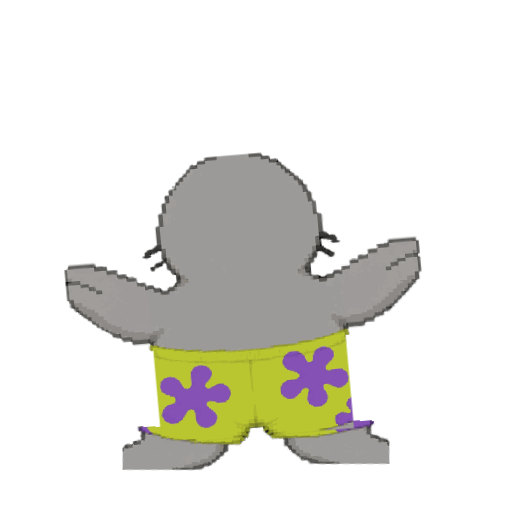
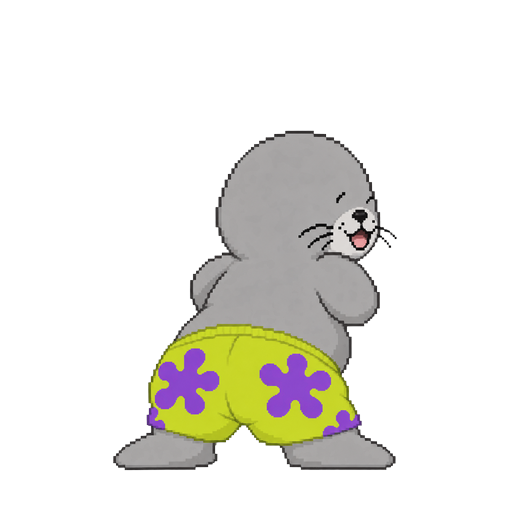
궁디댄스 원화 반입 — 진짜 그린 4키로 교체하고 뒤돌기 이음매를 맞춤
춤(twerk_loop)
  받은 원화 4장을 발 기준으로 정규화해 넣었다. 중앙 준비 120ms / 왼쪽 팝 200ms /
  중앙 통과 120ms / 오른쪽 팝 200ms — 한 바퀴 640ms, 신호 한 번에 3바퀴.
  팝을 길게, 통과를 짧게 둬서 박자가 생긴다. 몸 중심이 아니라 **발**로 맞춰서
  골반 이동이 정규화에 지워지지 않게 했다.

  ⚠ 골반 좌우 진폭이 발주 기준(한쪽 8~10%)의 1/3 수준인 19px(키의 5.7%)로 측정된다.
    프레임을 더 밀면 발까지 움직여 미끄러지므로 배치로는 못 고친다. 더 크게 하려면
    골반을 더 밀어 그린 원화가 필요하다. docs/art-orders.md 에 수치를 남겼다.

뒤돌기 이음매(turn_back / turn_front)
  뒤돌기는 5조각으로 구운 임시 뒷모습에서 끝나는데 춤은 새 원화로 시작해서,
  그 사이에서 팔·머리·명암이 통째로 바뀌며 크게 튀었다. 뒤돌기의 마지막 장과
  복귀의 첫 장을 춤 원화의 첫 자세와 같은 그림으로 바꿔 그 튐을 없앴다.
  3/4 측면(frame-01)은 여전히 가짜다(가로로 눌러 흉내). 스타일이 바뀌는 순간을
  가장 알아보기 어려운 프레임에 몰아넣은 배치다.

원화 보호 — 실제로 원화가 지워지고 있었다
  bake-placeholder-clips.js 를 한 번만 더 돌리면 방금 넣은 원화가 임시본으로
  되돌아가는 상태였다(placeholder 표시가 남아 있어 보호 조건에 안 걸렸다).
  import-clip.py 가 clip.json 에 source:"import" 를 박고, 굽기 도구가 그 클립을
  건너뛰게 했다. 가드를 잠시 풀고 돌려서 세 클립이 전부 덮어써지는 것을 확인했다.

굽기 도구 --force 가 동작하지 않던 버그
  argv[2] 를 캐릭터 이름으로 그냥 읽어서 `--force` 가 캐릭터 id 로 해석됐고,
  art/clips/--force/ 라는 엉뚱한 폴더에 조용히 구워졌다. 옵션을 걸러 읽게 고쳤다.

리모컨 버튼 이름을 "트월킹" → "궁디댄스" 로 바꿨다.

Claude-Session: https://claude.ai/code/session_01UGKUMqyrf4eS8x4wjHjfSy

Changed region(s): [[0.125, 0.25, 0.8438, 0.9375], [0.2188, 0.875, 0.4062, 0.9375]]

diff --git a/src/renderer/shared/clip-art.js b/src/renderer/shared/clip-art.js
@@ -15,7 +15,7 @@
   const RW = (root.RW = root.RW || {});
   const here = (typeof document !== 'undefined' && document.currentScript && document.currentScript.src) || '';
   const BASE = here ? here.replace(/shared\/clip-art\.js.*$/, 'assets/clips/') : 'assets/clips/';
-  const DATA = {"char_seal":{"canvas":{"w":512,"h":512},"anchor":{"x":256,"y":470},"displayScale":0.7059,"clips":{"idle":{"id":"idle","loop":true,"loopFrom":0,"cancelFrom":0,"frames":[{"image":"char_seal/idle/frame-00.png","dur":700,"bbox":[82,152,430,470]},{"image":"char_seal/idle/frame-01.png","dur":500,"bbox":[84,142,428,470]},{"image":"char_seal/idle/frame-02.png","dur":500,"bbox":[86,136,426,470]},{"image":"char_seal/idle/frame-03.png","dur":700,"bbox":[78,161,434,470]}],"placeholder":true},"g_cheer":{"id":"g_cheer","loop":false,"loopFrom":0,"cancelFrom":6,"frames":[{"image":"char_seal/idle/frame-00.png","dur":100,"bbox":[82,152,430,470]},{"image":"char_seal/g_cheer/frame-01.png","dur":220,"bbox":[58,217,454,471]},{"image":"char_seal/g_cheer/frame-02.png","dur":120,"bbox":[102,95,411,451]},{"image":"char_seal/g_cheer/frame-03.png","dur":260,"bbox":[116,51,396,429]},{"image":"char_seal/g_cheer/frame-04.png","dur":120,"bbox":[93,116,420,467]},{"image":"char_seal/g_cheer/frame-05.png","dur":200,"bbox":[63,207,450,470]},{"image":"char_seal/g_cheer/frame-02.png","dur":120,"bbox":[102,95,411,451]},{"image":"char_seal/g_cheer/frame-03.png","dur":260,"bbox":[116,51,396,429]},{"image":"char_seal/g_cheer/frame-04.png","dur":120,"bbox":[93,116,420,467]},{"image":"char_seal/g_cheer/frame-05.png","dur":200,"bbox":[63,207,450,470]},{"image":"char_seal/g_cheer/frame-02.png","dur":120,"bbox":[102,95,411,451]},{"image":"char_seal/g_cheer/frame-03.png","dur":260,"bbox":[116,51,396,429]},{"image":"char_seal/g_cheer/frame-04.png","dur":120,"bbox":[93,116,420,467]},{"image":"char_seal/g_cheer/frame-05.png","dur":200,"bbox":[63,207,450,470]},{"image":"char_seal/idle/frame-00.png","dur":280,"bbox":[82,152,430,470]}],"fx":"sparkle","placeholder":true},"g_droop":{"id":"g_droop","loop":false,"loopFrom":0,"cancelFrom":4,"frames":[{"image":"char_seal/idle/frame-00.png","dur":160,"bbox":[82,152,430,470]},{"image":"char_seal/g_droop/frame-01.png","dur":240,"bbox":[82,134,420,471]},{"image":"char_seal/g_droop/frame-02.png","dur":300,"bbox":[83,201,466,471]},{"image":"char_seal/g_droop/frame-03.png","dur":260,"bbox":[70,204,455,470]},{"image":"char_seal/g_droop/frame-04.png","dur":160,"bbox":[80,198,463,470]},{"image":"char_seal/g_droop/frame-05.png","dur":160,"bbox":[91,189,469,470]},{"image":"char_seal/g_droop/frame-06.png","dur":160,"bbox":[100,188,477,471]},{"image":"char_seal/g_droop/frame-07.png","dur":260,"bbox":[111,184,483,470]},{"image":"char_seal/g_droop/frame-08.png","dur":220,"bbox":[94,173,462,471]},{"image":"char_seal/g_droop/frame-09.png","dur":260,"bbox":[84,164,444,470]},{"image":"char_seal/idle/frame-00.png","dur":300,"bbox":[82,152,430,470]}],"fx":"droop","placeholder":true},"g_heart":{"id":"g_heart","loop":false,"loopFrom":0,"cancelFrom":4,"frames":[{"image":"char_seal/idle/frame-00.png","dur":120,"bbox":[82,152,430,470]},{"image":"char_seal/g_heart/frame-01.png","dur":200,"bbox":[70,185,442,471]},{"image":"char_seal/g_heart/frame-02.png","dur":200,"bbox":[92,125,421,459]},{"image":"char_seal/g_heart/frame-03.png","dur":280,"bbox":[78,110,396,465]},{"image":"char_seal/g_heart/frame-04.png","dur":120,"bbox":[86,140,427,465]},{"image":"char_seal/g_heart/frame-05.png","dur":220,"bbox":[79,170,448,470]},{"image":"char_seal/idle/frame-00.png","dur":320,"bbox":[82,152,430,470]}],"fx":"heart","placeholder":true},"turn_back":{"id":"turn_back","loop":false,"loopFrom":0,"cancelFrom":99,"frames":[{"image":"char_seal/idle/frame-00.png","dur":100,"bbox":[82,152,430,470]},{"image":"char_seal/turn_back/frame-01.png","dur":100,"bbox":[183,145,329,470]},{"image":"char_seal/turn_back/frame-02.png","dur":100,"bbox":[82,152,430,470]}],"placeholder":true},"turn_front":{"id":"turn_front","loop":false,"loopFrom":0,"cancelFrom":99,"frames":[{"image":"char_seal/turn_back/frame-02.png","dur":100,"bbox":[82,152,430,470]},{"image":"char_seal/turn_front/frame-01.png","dur":100,"bbox":[183,145,329,470]},{"image":"char_seal/idle/frame-00.png","dur":100,"bbox":[82,152,430,470]}],"placeholder":true},"twerk_loop":{"id":"twerk_loop","loop":true,"loopFrom":0,"cancelFrom":0,"frames":[{"image":"char_seal/twerk_loop/frame-00.png","dur":80,"bbox":[64,152,421,470],"ground":["L","R"]},{"image":"char_seal/twerk_loop/frame-01.png","dur":80,"bbox":[59,160,427,470],"ground":["L","R"]},{"image":"char_seal/twerk_loop/frame-02.png","dur":160,"bbox":[69,149,418,470],"ground":["L","R"]},{"image":"char_seal/twerk_loop/frame-03.png","dur":80,"bbox":[72,163,445,471],"ground":["L","R"]},{"image":"char_seal/twerk_loop/frame-04.png","dur":80,"bbox":[91,152,449,470],"ground":["L","R"]},{"image":"char_seal/twerk_loop/frame-05.png","dur":80,"bbox":[85,161,455,470],"ground":["L","R"]},{"image":"char_seal/twerk_loop/frame-06.png","dur":160,"bbox":[94,153,444,471],"ground":["L","R"]},{"image":"char_seal/twerk_loop/frame-07.png","dur":80,"bbox":[66,164,441,470],"ground":["L","R"]}],"placeholder":true},"walk":{"id":"walk","loop":true,"loopFrom":0,"cancelFrom":0,"frames":[{"image":"char_seal/walk/frame-00.png","dur":160,"bbox":[77,143,435,470],"ground":["L"]},{"image":"char_seal/walk/frame-01.png","dur":160,"bbox":[81,125,421,471],"ground":["L","R"]},{"image":"char_seal/walk/frame-02.png","dur":160,"bbox":[80,156,432,471],"ground":["L"]},{"image":"char_seal/walk/frame-03.png","dur":160,"bbox":[81,154,432,471],"ground":["L"]},{"image":"char_seal/walk/frame-04.png","dur":160,"bbox":[77,160,435,471],"ground":["R"]},{"image":"char_seal/walk/frame-05.png","dur":160,"bbox":[91,138,432,469],"ground":["L","R"]},{"image":"char_seal/walk/frame-06.png","dur":160,"bbox":[80,150,433,470],"ground":["R"]},{"image":"char_seal/walk/frame-07.png","dur":160,"bbox":[81,141,432,471],"ground":["R"]}],"stepAdvance":26,"placeholder":true}}}};
+  const DATA = {"char_seal":{"canvas":{"w":512,"h":512},"anchor":{"x":256,"y":470},"displayScale":0.7059,"clips":{"idle":{"id":"idle","loop":true,"loopFrom":0,"cancelFrom":0,"frames":[{"image":"char_seal/idle/frame-00.png","dur":700,"bbox":[82,152,430,470]},{"image":"char_seal/idle/frame-01.png","dur":500,"bbox":[84,142,428,470]},{"image":"char_seal/idle/frame-02.png","dur":500,"bbox":[86,136,426,470]},{"image":"char_seal/idle/frame-03.png","dur":700,"bbox":[78,161,434,470]}],"placeholder":true},"g_cheer":{"id":"g_cheer","loop":false,"loopFrom":0,"cancelFrom":6,"frames":[{"image":"char_seal/idle/frame-00.png","dur":100,"bbox":[82,152,430,470]},{"image":"char_seal/g_cheer/frame-01.png","dur":220,"bbox":[58,217,454,471]},{"image":"char_seal/g_cheer/frame-02.png","dur":120,"bbox":[102,95,411,451]},{"image":"char_seal/g_cheer/frame-03.png","dur":260,"bbox":[116,51,396,429]},{"image":"char_seal/g_cheer/frame-04.png","dur":120,"bbox":[93,116,420,467]},{"image":"char_seal/g_cheer/frame-05.png","dur":200,"bbox":[63,207,450,470]},{"image":"char_seal/g_cheer/frame-02.png","dur":120,"bbox":[102,95,411,451]},{"image":"char_seal/g_cheer/frame-03.png","dur":260,"bbox":[116,51,396,429]},{"image":"char_seal/g_cheer/frame-04.png","dur":120,"bbox":[93,116,420,467]},{"image":"char_seal/g_cheer/frame-05.png","dur":200,"bbox":[63,207,450,470]},{"image":"char_seal/g_cheer/frame-02.png","dur":120,"bbox":[102,95,411,451]},{"image":"char_seal/g_cheer/frame-03.png","dur":260,"bbox":[116,51,396,429]},{"image":"char_seal/g_cheer/frame-04.png","dur":120,"bbox":[93,116,420,467]},{"image":"char_seal/g_cheer/frame-05.png","dur":200,"bbox":[63,207,450,470]},{"image":"char_seal/idle/frame-00.png","dur":280,"bbox":[82,152,430,470]}],"fx":"sparkle","placeholder":true},"g_droop":{"id":"g_droop","loop":false,"loopFrom":0,"cancelFrom":4,"frames":[{"image":"char_seal/idle/frame-00.png","dur":160,"bbox":[82,152,430,470]},{"image":"char_seal/g_droop/frame-01.png","dur":240,"bbox":[82,134,420,471]},{"image":"char_seal/g_droop/frame-02.png","dur":300,"bbox":[83,201,466,471]},{"image":"char_seal/g_droop/frame-03.png","dur":260,"bbox":[70,204,455,470]},{"image":"char_seal/g_droop/frame-04.png","dur":160,"bbox":[80,198,463,470]},{"image":"char_seal/g_droop/frame-05.png","dur":160,"bbox":[91,189,469,470]},{"image":"char_seal/g_droop/frame-06.png","dur":160,"bbox":[100,188,477,471]},{"image":"char_seal/g_droop/frame-07.png","dur":260,"bbox":[111,184,483,470]},{"image":"char_seal/g_droop/frame-08.png","dur":220,"bbox":[94,173,462,471]},{"image":"char_seal/g_droop/frame-09.png","dur":260,"bbox":[84,164,444,470]},{"image":"char_seal/idle/frame-00.png","dur":300,"bbox":[82,152,430,470]}],"fx":"droop","placeholder":true},"g_heart":{"id":"g_heart","loop":false,"loopFrom":0,"cancelFrom":4,"frames":[{"image":"char_seal/idle/frame-00.png","dur":120,"bbox":[82,152,430,470]},{"image":"char_seal/g_heart/frame-01.png","dur":200,"bbox":[70,185,442,471]},{"image":"char_seal/g_heart/frame-02.png","dur":200,"bbox":[92,125,421,459]},{"image":"char_seal/g_heart/frame-03.png","dur":280,"bbox":[78,110,396,465]},{"image":"char_seal/g_heart/frame-04.png","dur":120,"bbox":[86,140,427,465]},{"image":"char_seal/g_heart/frame-05.png","dur":220,"bbox":[79,170,448,470]},{"image":"char_seal/idle/frame-00.png","dur":320,"bbox":[82,152,430,470]}],"fx":"heart","placeholder":true},"turn_back":{"id":"turn_back","loop":false,"loopFrom":0,"cancelFrom":99,"frames":[{"image":"char_seal/idle/frame-00.png","dur":100,"bbox":[82,152,430,470]},{"image":"char_seal/turn_back/frame-01.png","dur":100,"bbox":[193,130,316,470]},{"image":"char_seal/turn_back/frame-02.png","dur":100,"bbox":[113,130,396,470]}],"placeholder":true},"turn_front":{"id":"turn_front","loop":false,"loopFrom":0,"cancelFrom":99,"frames":[{"image":"char_seal/turn_back/frame-02.png","dur":100,"bbox":[113,130,396,470]},{"image":"char_seal/turn_back/frame-01.png","dur":100,"bbox":[193,130,316,470]},{"image":"char_seal/idle/frame-00.png","dur":100,"bbox":[82,152,430,470]}],"placeholder":true},"twerk_loop":{"id":"twerk_loop","loop":true,"loopFrom":0,"cancelFrom":0,"frames":[{"image":"char_seal/turn_back/frame-02.png","dur":120,"bbox":[113,130,396,470],"ground":["L","R"]},{"image":"char_seal/twerk_loop/frame-01.png","dur":200,"bbox":[126,151,382,469],"ground":["L","R"]},{"image":"char_seal/twerk_loop/frame-02.png","dur":120,"bbox":[115,141,395,470],"ground":["L","R"]},{"image":"char_seal/twerk_loop/frame-03.png","dur":200,"bbox":[123,140,390,470],"ground":["L","R"]}],"placeholder":true},"walk":{"id":"walk","loop":true,"loopFrom":0,"cancelFrom":0,"frames":[{"image":"char_seal/walk/frame-00.png","dur":160,"bbox":[77,143,435,470],"ground":["L"]},{"image":"char_seal/walk/frame-01.png","dur":160,"bbox":[81,125,421,471],"ground":["L","R"]},{"image":"char_seal/walk/frame-02.png","dur":160,"bbox":[80,156,432,471],"ground":["L"]},{"image":"char_seal/walk/frame-03.png","dur":160,"bbox":[81,154,432,471],"ground":["L"]},{"image":"char_seal/walk/frame-04.png","dur":160,"bbox":[77,160,435,471],"ground":["R"]},{"image":"char_seal/walk/frame-05.png","dur":160,"bbox":[91,138,432,469],"ground":["L","R"]},{"image":"char_seal/walk/frame-06.png","dur":160,"bbox":[80,150,433,470],"ground":["R"]},{"image":"char_seal/walk/frame-07.png","dur":160,"bbox":[81,141,432,471],"ground":["R"]}],"stepAdvance":26,"placeholder":true}}}};
   // 상대 경로 → 절대 경로
   for (const ch of Object.keys(DATA)) {
     const clips = DATA[ch].clips;

diff --git a/tools/bake-placeholder-clips.js b/tools/bake-placeholder-clips.js
@@ -16,7 +16,11 @@ const { chromium } = require('playwright-core');
 const { CLIPS } = require('./clip-poses');
 
 const ROOT = path.join(__dirname, '..');
-const CHAR = process.argv[2] || 'char_seal';
+// 캐릭터 id 는 **옵션이 아닌 첫 인자**다. 예전엔 argv[2] 를 그냥 썼기 때문에
+// `node tools/bake-placeholder-clips.js --force` 가 '--force' 라는 이름의 캐릭터로 해석돼
+// art/clips/--force/ 에 조용히 구워졌다. 덮어쓰기 방지가 도는 것처럼 보이지만 실은
+// 아무 일도 안 하고 있었다.
+const CHAR = process.argv.slice(2).find((a) => !a.startsWith('--')) || 'char_seal';
 const OUT = path.join(ROOT, 'art', 'clips', CHAR);
 const CHROME = process.env.CHROME_PATH || '/opt/pw-browsers/chromium-1194/chrome-linux/chrome';
 
@@ -109,7 +113,26 @@ window.POSE = function (pose) {
   console.log(`[${CHAR}] 콘텐츠 상자 ${info.box.w}×${info.box.h}, 배율 ${info.scale.toFixed(3)}`);
 
   const manifest = {};
+  // ★ 승인된 원화 보호 — 이 도구는 **임시 굽기** 도구다.
+  // clip.json 에 placeholder 표시가 없으면 사람이 검수해 통과시킨 원화라는 뜻이다.
+  // 그런 클립은 건너뛴다. 문서 경고만으로는 사고를 막지 못한다(--force 로만 덮어쓴다).
+  const FORCE = process.argv.includes('--force');
+  const skipped = [];
+
   for (const clipId of Object.keys(CLIPS)) {
+    if (!FORCE) {
+      let approved = false;
+      try {
+        const j = JSON.parse(fs.readFileSync(path.join(OUT, clipId, 'clip.json'), 'utf8'));
+        // 두 가지를 다 지킨다.
+        //   placeholder 없음 → 눈 검수를 통과한 원화
+        //   source==='import' → import-clip.py 로 **밖에서 그린 그림을 넣은** 클립.
+        //     아직 검수 전이라 placeholder 가 남아 있어도, 자세만 잡아 구운 임시 그림으로
+        //     되돌리면 원화가 사라진다. (실제로 트월킹 원화가 이 조건에 걸려 있었다.)
+        approved = j.placeholder !== true || j.source === 'import';
+      } catch (_) { approved = false; }   // clip.json 이 없으면 아직 아무것도 없는 것
+      if (approved) { skipped.push(clipId); continue; }
+    }
     const clip = CLIPS[clipId];
     const dir = path.join(OUT, clipId);
     fs.mkdirSync(dir, { recursive: true });
@@ -172,6 +195,10 @@ window.POSE = function (pose) {
 
   await browser.close();
   fs.unlinkSync(tmp);
+  if (skipped.length) {
+    console.log(`\n  ⛔ 원화(가져온 그림)라 건너뜀: ${skipped.join(', ')}`);
+    console.log('     (정말 임시본으로 되돌리려면 --force)');
+  }
   console.log(`\n→ ${OUT}`);
   console.log('다음: node tools/build-clip-art.js');
 })();

diff --git a/src/renderer/shared/gestures.js b/src/renderer/shared/gestures.js
@@ -28,7 +28,7 @@
     { id: 'g_heart', name: '보고싶어', icon: '💗', hint: '살짝 폴짝 + 하트' },
     { id: 'g_cheer', name: '신나',     icon: '✨', hint: '방방 뛰기 + 반짝' },
     { id: 'g_droop', name: '지쳤어',   icon: '🫠', hint: '축 처져 흔들' },
-    { id: 'g_twerk', name: '트월킹',   icon: '🍑', hint: '뒤돌아 엉덩이 흔들' }
+    { id: 'g_twerk', name: '궁디댄스', icon: '🍑', hint: '뒤돌아 엉덩이 흔들' }
   ];
 
   // 자율 생활 — 전송되지 않고 히스토리에도 남지 않는다. 로컬에서만 재생.

diff --git a/tools/import-clip.py b/tools/import-clip.py
@@ -1,0 +1,205 @@
+#!/usr/bin/env python3
+"""원화 가져오기 — 받은 그림을 **검사한 뒤에만** 클립 폴더에 넣는다.
+
+원화 제작은 바깥에서 하고, 여기서는 가져오기·분할·검사·메타데이터만 한다.
+
+  입력:  art/staging/<characterId>/<clipId>/   ← 여기에 그림을 놓는다
+           - frame-00.png … frame-NN.png   (낱장으로 받은 경우)
+           - sheet.png                     (4열×2행 등 시트로 받은 경우)
+           - sheet.json                    (시트 분할 정보: {"cols":4,"rows":2})
+  출력:  art/clips/<characterId>/<clipId>/frame-NN.png + clip.json
+
+원칙
+  * **원본은 건드리지 않는다.** staging 은 그대로 남는다.
+  * 규격을 통과하지 못하면 **아무것도 쓰지 않는다.** 기존 정상 에셋을 훼손하지 않기 위해서다.
+  * RGB→RGBA 변환만으로 "투명 배경" 이라고 하지 않는다. 실제 알파를 검사한다.
+  * placeholder 표시는 여기서 지우지 않는다. 사람이 눈으로 검수한 뒤 --approve 로만 지운다.
+
+  실행:
+    python3 tools/import-clip.py char_seal twerk_loop            # 검사만(모의 실행)
+    python3 tools/import-clip.py char_seal twerk_loop --write    # 통과하면 반영
+    python3 tools/import-clip.py char_seal twerk_loop --write --approve
+                                                                 # 눈 검수까지 끝났을 때만
+"""
+import json, os, sys, shutil
+from PIL import Image
+
+HERE = os.path.dirname(os.path.abspath(__file__))
+ROOT = os.path.dirname(HERE)
+
+# 규격 — docs/animation-bible.md 2절과 같아야 한다.
+CANVAS = (512, 512)
+ANCHOR = (256, 470)
+GROUND_TOL = 1          # 접지 프레임 발바닥 허용 오차(px)
+ALPHA_BG = 8            # 이 값 이하면 배경으로 본다
+EDGE_PAD = 2            # 캔버스 가장자리 이 안쪽에 그림이 닿으면 잘린 것으로 본다
+
+
+def fail(msgs):
+    for m in msgs:
+        print('   ✗ ' + m)
+
+
+def load_frames(src):
+    """낱장 또는 시트에서 프레임 목록을 만든다. (원본은 수정하지 않는다)"""
+    singles = sorted(f for f in os.listdir(src) if f.startswith('frame-') and f.endswith('.png'))
+    if singles:
+        return [(f, Image.open(os.path.join(src, f)).convert('RGBA')) for f in singles], 'singles'
+
+    sheet_path = os.path.join(src, 'sheet.png')
+    if not os.path.exists(sheet_path):
+        return None, '입력 없음'
+    meta = {'cols': 4, 'rows': 2}
+    mp = os.path.join(src, 'sheet.json')
+    if os.path.exists(mp):
+        meta.update(json.load(open(mp)))
+    sheet = Image.open(sheet_path).convert('RGBA')
+    cols, rows = int(meta['cols']), int(meta['rows'])
+    cw, ch = sheet.width / cols, sheet.height / rows
+    if abs(cw - round(cw)) > 0.01 or abs(ch - round(ch)) > 0.01:
+        print(f'   ⚠ 셀 크기가 정수가 아니다: {cw}×{ch} — 반올림해서 자른다(경계가 밀릴 수 있음)')
+    out = []
+    for r in range(rows):
+        for c in range(cols):
+            box = (round(c * cw), round(r * ch), round((c + 1) * cw), round((r + 1) * ch))
+            out.append((f'frame-{len(out):02d}.png', sheet.crop(box)))
+    return out, f'시트 {cols}×{rows}'
+
+
+def check(name, im):
+    """한 프레임의 규격 검사. 문제 목록을 돌려준다."""
+    bad = []
+    if im.size != CANVAS:
+        bad.append(f'{name}: 캔버스가 {im.size} — {CANVAS[0]}×{CANVAS[1]} 이어야 한다')
+        return bad, None
+
+    px = im.load()
+    w, h = im.size
+    # 배경이 진짜 투명한가 — 네 모서리와 테두리 한 줄을 본다.
+    opaque_edge = 0
+    for x in range(w):
+        for y in (0, h - 1):
+            if px[x, y][3] > ALPHA_BG:
+                opaque_edge += 1
+    for y in range(h):
+        for x in (0, w - 1):
+            if px[x, y][3] > ALPHA_BG:
+                opaque_edge += 1
+    if opaque_edge > 0:
+        bad.append(f'{name}: 테두리에 불투명 픽셀 {opaque_edge}개 — 배경이 남아 있다'
+                   f'(체크무늬를 투명으로 착각했을 수 있다)')
+
+    # 그림 영역
+    box = None
+    xs0, ys0, xs1, ys1 = w, h, -1, -1
+    for y in range(h):
+        for x in range(w):
+            if px[x, y][3] > ALPHA_BG:
+                if x < xs0: xs0 = x
+                if y < ys0: ys0 = y
+                if x > xs1: xs1 = x
+                if y > ys1: ys1 = y
+    if xs1 < 0:
+        bad.append(f'{name}: 그림이 없다(전부 투명)')
+        return bad, None
+    box = (xs0, ys0, xs1, ys1)
+
+    if xs0 < EDGE_PAD or ys0 < EDGE_PAD or xs1 > w - 1 - EDGE_PAD or ys1 > h - 1 - EDGE_PAD:
+        bad.append(f'{name}: 그림이 캔버스 끝에 닿는다 {box} — 잘렸을 수 있다')
+    return bad, box
+
+
+def main():
+    if len(sys.argv) < 3:
+        print(__doc__)
+        sys.exit(2)
+    char, clip = sys.argv[1], sys.argv[2]
+    write = '--write' in sys.argv
+    approve = '--approve' in sys.argv
+
+    src = os.path.join(ROOT, 'art', 'staging', char, clip)
+    dst = os.path.join(ROOT, 'art', 'clips', char, clip)
+    if not os.path.isdir(src):
+        print(f'✗ 입력 폴더가 없다: {os.path.relpath(src, ROOT)}')
+        print('  원화 제작자가 여기에 frame-00.png… 또는 sheet.png 를 넣으면 된다.')
+        sys.exit(1)
+
+    frames, how = load_frames(src)
+    if not frames:
+        print(f'✗ {os.path.relpath(src, ROOT)} 에 frame-NN.png 도 sheet.png 도 없다')
+        sys.exit(1)
+    print(f'{char}/{clip} — {how}, 프레임 {len(frames)}장')
+
+    problems, boxes = [], []
+    for name, im in frames:
+        bad, box = check(name, im)
+        problems += bad
+        boxes.append((name, box))
+
+    # 접지: 기존 clip.json 이 있으면 그 ground 정보를 존중한다(없으면 검사 생략)
+    old = None
+    op = os.path.join(dst, 'clip.json')
+    if os.path.exists(op):
+        old = json.load(open(op))
+        for i, (name, box) in enumerate(boxes):
+            if box is None or i >= len(old.get('frames', [])):
+                continue
+            if old['frames'][i].get('ground'):
+                if abs(box[3] - ANCHOR[1]) > GROUND_TOL:
+                    problems.append(f'{name}: 접지 프레임인데 발바닥이 y={box[3]} '
+                                    f'(기준 {ANCHOR[1]}±{GROUND_TOL})')
+
+    if problems:
+        print(f'\n✗ 규격 문제 {len(problems)}건 — 아무것도 쓰지 않았다')
+        fail(problems)
+        print('\n  → 이 프레임들을 원화 제작 환경에 그대로 알려 재작업을 요청한다.')
+        sys.exit(1)
+
+    hs = [b[3] - b[1] for _, b in boxes if b]
+    print(f'✓ 규격 통과 — 그림 높이 {min(hs)}~{max(hs)}px, 발바닥 기준 {ANCHOR[1]}')
+
+    if not write:
+        print('\n(모의 실행이다. 반영하려면 --write)')
+        return
+
+    os.makedirs(dst, exist_ok=True)
+    for name, im in frames:
+        im.save(os.path.join(dst, name))
+    meta = dict(old) if old else {
+        'id': clip, 'character': char,
+        'canvas': {'w': CANVAS[0], 'h': CANVAS[1]},
+        'anchor': {'x': ANCHOR[0], 'y': ANCHOR[1]},
+        'displayScale': 0.7059, 'charHeight': 340
+    }
+    # 프레임 수가 달라졌으면 목록을 다시 만든다. 예전 목록을 그대로 두면 없는 파일을
+    # 가리키거나(8장 → 4장) 새 프레임이 등록되지 않는다.
+    oldf = (old or {}).get('frames', [])
+    meta['frames'] = []
+    for i, (n, _) in enumerate(frames):
+        e = {'file': n, 'dur': (oldf[i].get('dur') if i < len(oldf) else None) or 120}
+        g = oldf[i].get('ground') if i < len(oldf) else None
+        if g: e['ground'] = g
+        meta['frames'].append(e)
+    if len(oldf) != len(frames):
+        print(f'· 프레임 수가 {len(oldf)} → {len(frames)} 로 바뀌어 목록을 다시 만들었다')
+    # 이 표시는 placeholder 와 별개다. placeholder 는 "눈 검수를 했는가",
+    # source 는 "이 프레임이 어디서 왔는가" 다. 가져온 그림은 아직 검수 전이어도
+    # 임시 굽기 도구(bake-placeholder-clips.js)가 덮어쓰면 안 된다.
+    meta['source'] = 'import'
+    if approve:
+        meta.pop('placeholder', None)
+        meta.pop('note', None)
+        meta.pop('needsArt', None)
+        meta['reviewed'] = True
+        print('✓ 검수 통과로 표시했다(placeholder 해제)')
+    else:
+        meta['placeholder'] = True
+        meta['note'] = '가져오기는 됐지만 아직 눈 검수 전이다. --approve 로만 해제한다.'
+        print('· placeholder 는 그대로 둔다. 눈으로 확인한 뒤 --approve 로 해제한다.')
+    json.dump(meta, open(os.path.join(dst, 'clip.json'), 'w'), ensure_ascii=False, indent=2)
+    print(f'→ {os.path.relpath(dst, ROOT)}  (원본 staging 은 그대로 남는다)')
+    print('  다음: python3 tools/build-clip-art.py')
+
+
+if __name__ == '__main__':
+    main()

diff --git a/docs/art-orders.md b/docs/art-orders.md
@@ -124,13 +124,46 @@
 
 > **3/4 측면 그림이 반드시 필요하다.** 이게 없으면 뒤돌기가 순간이동으로 보인다.
 >
-> ⚠ 현재 저장소의 `turn_back/frame-01`·`turn_front/frame-01` 은 **가짜다.** 3/4 측면을
-> 그릴 방법이 없어서 정면 그림을 가로로 얇게 눌러 넣었다. 회전하는 부피가 아니라
+> ⚠ 현재 저장소의 `turn_back/frame-01`·`turn_front/frame-01` 은 여전히 **가짜다.**
+> 3/4 측면을 그릴 방법이 없어서 그림을 가로로 얇게 눌러 넣었다. 회전하는 부피가 아니라
 > 납작해지는 종이로 읽힌다. 이번 발주에서 **우선순위가 가장 높은 그림**이다.
+>
+> ✅ 다만 **끝 자세는 고쳤다.** `turn_back/frame-02` 와 `turn_front/frame-00` 을
+> 트월킹 원화의 첫 장(`twerk_loop/frame-00`)과 **같은 그림**으로 바꿨다. 예전에는
+> 뒤돌기가 5조각 리그로 구운 임시 뒷모습에서 끝나는데 춤은 새 원화로 시작해서,
+> 그 이음매에서 팔·머리·명암이 통째로 바뀌며 크게 튀었다. 이제 그 튐은 없고,
+> 남은 튐은 `frame-00 → frame-01`(정면 → 눌린 그림) 한 군데뿐이다.
+> 가짜인 `frame-01` 을 눌린 그림으로 둔 것도 의도다 — 스타일이 바뀌는 순간을
+> 가장 알아보기 어려운 프레임에 몰아넣은 것이다.
 
 ### `twerk_loop` — 8장, 루프, 뒷모습 · **이 클립이 제품의 대표 동작이다**
 
-> **왜 지금 것으로는 안 되는가 (측정 결과)**
+> ## ✅ 원화 도착 — 지금은 4장이다 (2026-09)
+>
+> 사용자가 그려 준 궁디댄스 원화 4장이 들어갔다. 아래 8장 발주표는 **아직 안 온
+> 그림의 발주서로만** 읽는다. 지금 저장소에 있는 것은 다음과 같다.
+>
+> | 파일 | 자세 | 유지 |
+> |---|---|---|
+> | `frame-00` | 중앙 준비 (뒤돌아 서서 어깨 너머로 힐끗) | 120ms |
+> | `frame-01` | 왼쪽 궁디 팝 | 200ms |
+> | `frame-02` | 중앙 통과 | 120ms |
+> | `frame-03` | 오른쪽 궁디 팝 | 200ms |
+>
+> 한 바퀴 **640ms**, 신호 한 번에 3바퀴. 정점(01·03)을 길게, 통과(00·02)를 짧게 둬서
+> 팝이 박자로 읽히게 했다. 네 장 모두 발바닥 y=469~470 으로 접지가 맞고,
+> 연속성 검사에서 트월킹 구간 가로변화 1px·발밑변화 1px 이다(발이 미끄러지지 않는다).
+>
+> **⚠ 측정: 골반 좌우 진폭이 발주 기준의 3분의 1 수준이다.**
+> 네 장의 골반 x 를 발 중심 기준으로 재면 좌우 폭이 **19px(키의 5.7%, 한쪽 약 2.8%)** 다.
+> 아래 수치 기준은 한쪽 8~10% 였다. 즉 눈에 보이긴 하지만 "확 밀리는" 팝은 아니다.
+> 이건 배치로 못 고친다 — 프레임을 좌우로 더 밀면 발까지 같이 움직여 미끄러진다.
+> 더 크게 하려면 **골반을 더 밀어 그린 원화**가 필요하다.
+>
+> 아직 없는 것: 압축·반동 사이 그림(발주표의 02·04·06·08 자리). 지금은 팝에서
+> 팝으로 바로 넘어가므로, 곁눈질로는 읽히지만 탄성은 덜하다.
+
+> **왜 예전 임시본으로는 안 됐는가 (측정 결과)**
 >
 > 1. **위아래 성분이 통째로 지워지고 있었다.** `tools/bake-placeholder-clips.js` 는 접지
 >    프레임의 발바닥을 바닥선(y=470)에 맞추려고 `root.y` 를 도로 뺀다. 트월킹은 8프레임이
@@ -214,12 +247,23 @@ Keep flower shapes, proportions and pixel texture consistent between frames.
 art/clips/char_seal/twerk_loop/frame-00.png  …  frame-07.png
 ```
 
-그다음 `art/clips/char_seal/twerk_loop/clip.json` 에서 **`"placeholder": true` 줄만 지운다.**
-(유지 시간은 위 표대로 이미 들어가 있다.) 마지막으로 `python3 tools/build-clip-art.py`.
+**넣는 방법** — 손으로 복사하지 않는다. `art/staging/char_seal/<클립>/` 에 놓고
+
+```
+python3 tools/import-clip.py char_seal twerk_loop --write
+```
+
+가져오기 도구가 캔버스·투명 배경·잘림·접지를 먼저 검사하고, **하나라도 걸리면 아무것도
+쓰지 않는다.** 통과하면 `clip.json` 에 `"source": "import"` 가 박힌다. 눈으로 검수까지
+끝냈을 때만 `--approve` 를 덧붙여 `placeholder` 를 뗀다. 마지막으로
+`python3 tools/build-clip-art.py`.
 
 > ⚠ **주의 두 가지**
-> - `node tools/bake-placeholder-clips.js` 를 다시 돌리면 **새 원화를 임시본으로 덮어쓴다.**
->   진짜 그림을 넣은 뒤에는 그 도구를 이 클립에 쓰지 않는다.
+> - `node tools/bake-placeholder-clips.js` 는 이 클립을 **건드리지 않는다.**
+>   `source: "import"` 인 클립은 건너뛰도록 막아 뒀다(`--force` 로만 덮어쓴다).
+>   막기 전에는 이 도구를 한 번 더 돌리는 것만으로 원화가 임시본으로 되돌아갔다.
+>   실제로 가드를 잠시 풀고 돌려 보니 turn_back·turn_front·twerk_loop 이
+>   전부 임시본으로 덮어써지는 것을 확인했다.
 > - 개념 시트(`seal-wiggle-concept.png`)는 **그대로 못 쓴다.** 측정해 보니 RGB 모드로
 >   알파 채널이 아예 없고, 배경이 242~254 회색 **체크무늬가 그림에 칠해져** 있으며,
 >   셀 크기가 443.5px 로 512 격자가 아니다. 포즈·리듬 참고로만 쓴다.

diff --git a/art/staging/README.md b/art/staging/README.md
@@ -1,0 +1,45 @@
+# 원화 반입 폴더 (staging)
+
+원화 제작 환경에서 만든 그림을 **여기에 놓기만** 하면 된다. 여기 있는 원본은
+도구가 절대 수정하지 않는다.
+
+```
+art/staging/<characterId>/<clipId>/
+    frame-00.png … frame-NN.png      ← 낱장으로 받은 경우
+  또는
+    sheet.png                        ← 시트로 받은 경우
+    sheet.json                       ← {"cols": 4, "rows": 2}
+```
+
+## 규격 (docs/animation-bible.md 2·8절과 동일)
+
+- 프레임마다 **512×512 RGBA PNG**, 실제 투명 배경(체크무늬를 그려 넣은 것은 배경이 아니다)
+- 기준점 **(256, 470)**. 접지 프레임은 발바닥이 y=470 (±1px)
+- 기준 자세 키 **340px**, `displayScale` 0.7059, **모든 프레임 같은 배율**
+- 쪼그리는 프레임까지 키를 억지로 맞추지 않는다. 낮아진 자세는 낮은 채로 둔다
+- 그림 중심을 매 프레임 자동 정렬하지 않는다 — 그러면 골반 이동이 지워진다
+
+## 반입 절차
+
+```bash
+python3 tools/import-clip.py <characterId> <clipId>              # 검사만(아무것도 안 씀)
+python3 tools/import-clip.py <characterId> <clipId> --write      # 통과하면 반영
+python3 tools/import-clip.py <characterId> <clipId> --write --approve
+                                                                  # 눈 검수까지 끝난 뒤에만
+python3 tools/build-clip-art.py                                   # 런타임 에셋 생성
+```
+
+- 규격을 하나라도 못 넘기면 **아무 파일도 쓰지 않는다.** 기존 정상 에셋을 훼손하지 않기 위해서다.
+- `--approve` 없이는 `placeholder` 표시가 유지된다. 파일이 있다는 이유로 풀지 않는다.
+- 한 번 승인된 클립은 `tools/bake-placeholder-clips.js` 가 **건너뛴다**(`--force` 로만 덮어씀).
+
+## 검수 방법
+
+```bash
+node tools/anim-check/render.js && python3 tools/anim-check/check.py   # 찢어짐·구멍
+node tools/anim-check/timeline.js                                      # 재생 시간축
+node tools/app-smoke.js                                                # 진짜 앱에서 표시
+```
+
+자동 검사를 통과했다고 귀여운 것은 아니다. **이펙트·소리를 끄고 0.5초 안에 그 동작으로
+읽히는지는 눈으로 판단한다.**
